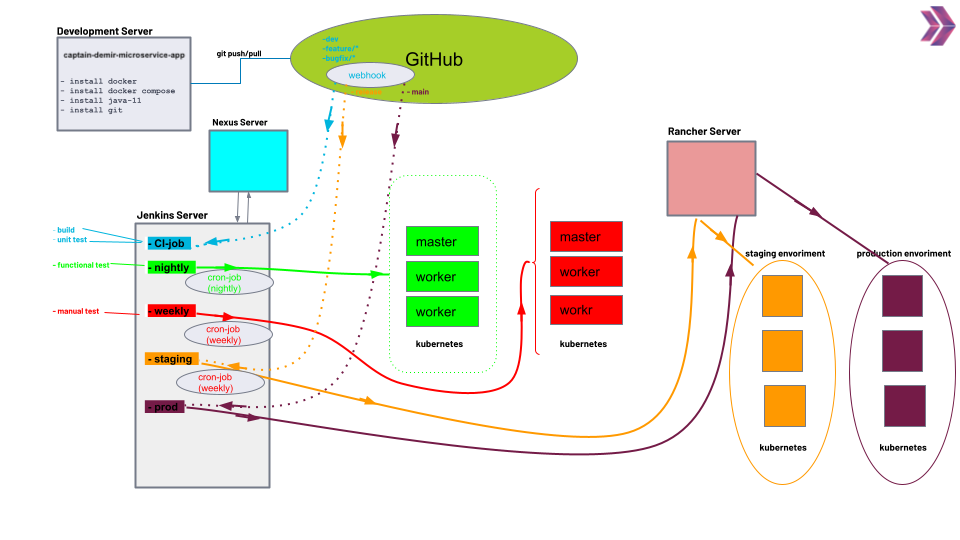
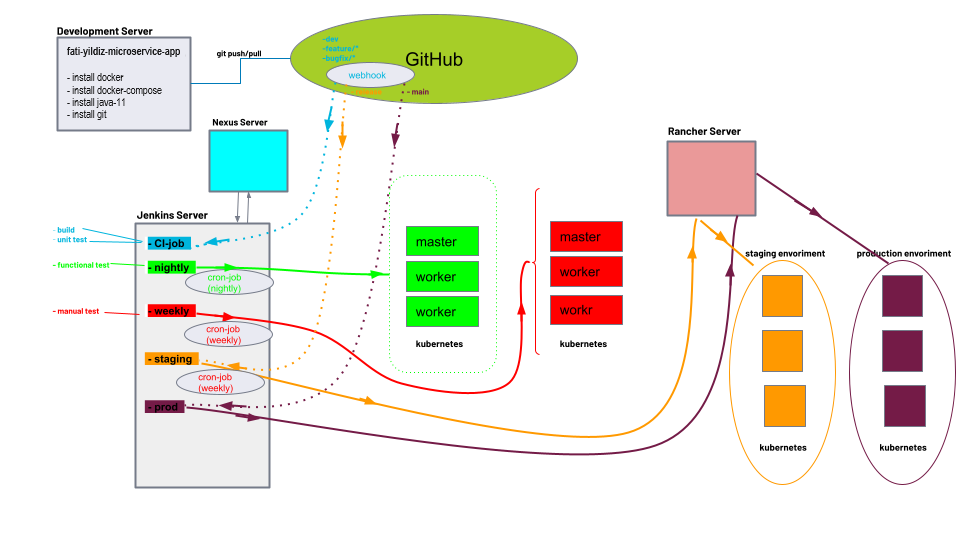
update

Changed region(s): [[0.0625, 0.0889, 0.1875, 0.237], [0.9375, 0.0, 1.0, 0.0889]]

diff --git a/README.md b/README.md
@@ -85,7 +85,7 @@ yum install java-11-amazon-corretto -y
 * Connect to your Development Server via `ssh` and clone the web app from the repository [Spring Microservices App]
 
 ``` bash
-git clone "https://github.com/frankyildiz/microservices.git"
+git clone "https://github.com/fatiyildiz/microservices.git"
 ```
 
 * Change your working directory to **microservices** and delete the **.git** directory.
